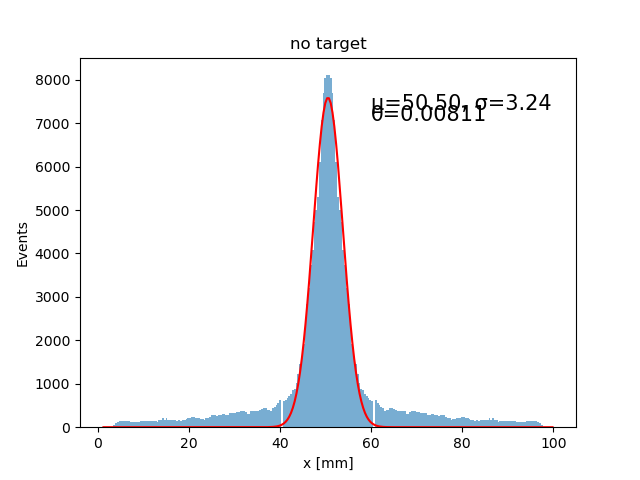
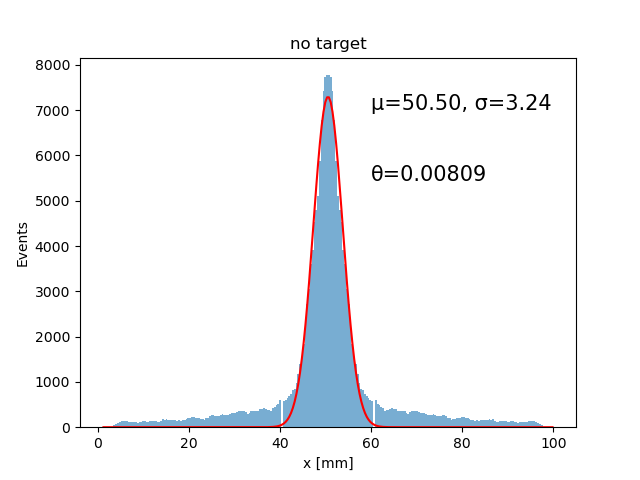
unedited no material plot added. XY Hitmap by Jonas added

diff --git a/src/elsa/dataReader.py b/src/elsa/dataReader.py
@@ -5,6 +5,10 @@ from collections import Counter
 from scipy.optimize import curve_fit
 
 def drawHistograms(file, histogramArray, indexTranslation):
+    
+    #To later calculate the standard deviation from the difference of the no data run and the other runs.
+    standardDevNoData = 0
+
     for i in histogramArray:
 
         mm_strip = file[i]["raw"]["mm_strip"].array(library="np")
@@ -18,7 +22,7 @@ def drawHistograms(file, histogramArray, indexTranslation):
 
 
         #filter out unprecise data to eliminate local jitters
-        valid_events = {eid for eid, count in event_counts.items() if count < 800}
+        valid_events = {eid for eid, count in event_counts.items() if count < 700}
         mask = np.isin(event_id, list(valid_events))
 
         mm_strip = mm_strip[mask]
@@ -27,43 +31,81 @@ def drawHistograms(file, histogramArray, indexTranslation):
         #divide mm strip into x and y data with apv_id
         x_strip = mm_strip[(apv_id == 0) | (apv_id == 1)]
         y_strip = mm_strip[(apv_id == 2) | (apv_id == 3)]
+        
+        #doesn't work because the lengths aren't equal
+        #print(len(x_strip))
+        #print(len(y_strip))
+        #if i == 0:
+        #    twodHist(x_strip,y_strip)
+        
+        #if i == 0:
+        #    plt.hist(y_strip, bins=250, range=(1,250))
+        #    plt.xlabel("y-Detector")
+        #    plt.ylabel("events")
+        #    plt.show()
+
+
 
         #swap out the left and right side to account for weird apv placement
+        x_strip[x_strip >= 126] -= 250
+        x_strip[x_strip >= 1] += 125
+        y_strip[y_strip <=0] += 125
+
         y_strip[y_strip >= 126] -= 250
         y_strip[y_strip >= 1] += 125
         y_strip[y_strip<=0] += 125 
+
+        if i == 0 and False:
+            plt.hist(y_strip, bins=250, range=(1,250))
+            plt.xlabel("y-Detector")
+            plt.ylabel("events")
+            plt.savefig("finished_plots/unfiltered_noMaterial.png")
+            plt.show()
         
         #convert the bin count into mm
         y_strip = y_strip / 2.5  +1
+        x_strip = x_strip / 2.5 +1
+        
+        #if i == 0:
+        #    twodHist(x_strip, y_strip)
 
         #these are now arrays that list the individual counts, such that the size of this array is the amount of data collected.
         #I will transform this into two arrays, both 250 long (the amount of buckets)
         #such that one records the size of the bucket, and the other the bucket number.
-        counts, edges = np.histogram(y_strip, bins=250, range=(1,100))
-        centers = 0.5 * (edges[:-1] + edges[1:])
+        ycounts, yedges = np.histogram(y_strip, bins=250, range=(1,100))
+        ycenters = 0.5 * (yedges[:-1] + yedges[1:])
         
         #mirroring the Array so that the data becomes easier to analyze and the sensitivity difference between apvs is ignored.
-        counts = mirrorArrayLeft(counts)
-
-
-
+        yMirrorcounts = mirrorArrayLeft(ycounts)
 
 
         #Now start a gauss fit by doing an initial guess
         #[amplitude, mean, stddev]
-        p0 = [np.max(counts), centers[np.argmax(counts)], 10, 500]
+        p0 = [np.max(yMirrorcounts), ycenters[np.argmax(yMirrorcounts)], 10, 500]
         
         #fit with scipy
-        popt, pcov = curve_fit(gauss, centers, counts, p0=p0)
+        popt, pcov = curve_fit(gauss, ycenters, yMirrorcounts, p0=p0)
+        
+        if i == 0:
+            standardDevNoData = popt[2] #Saves noData standard deviation
+            
 
-
-        plt.bar(centers, counts, width=edges[1] - edges[0], alpha=0.6, label="Data")
-        plt.plot(centers, gauss(centers, *popt), color='red', label="Gaussian Fit")
+        plt.bar(ycenters, yMirrorcounts, width=yedges[1] - yedges[0], alpha=0.6, label="Data")
+        plt.plot(ycenters, gauss(ycenters, *popt), color='red', label="Gaussian Fit")
         
         plt.xlabel("x [mm]")
         plt.ylabel("Events")
-        plt.text(60,np.max(counts) - np.max(counts)/10, f"μ={popt[1]:.2f}, σ={popt[2]:.2f}", fontsize=15)
-        plt.text(60,np.max(counts) - 1.3*np.max(counts)/10, "θ=" + str(np.round(np.arctan(popt[2]/400), 5)), fontsize=15)
+
+
+        if i == 0:
+            plt.text(60,np.max(yMirrorcounts) - np.max(yMirrorcounts)/10, f"μ={popt[1]:.2f}, σ={popt[2]:.2f}", fontsize=15)
+            plt.text(60,np.max(yMirrorcounts) - 3*np.max(yMirrorcounts)/10, "θ=" + str(np.round(np.arctan(popt[2]/400), 5)), fontsize=15)
+        else:
+            popt[2] = np.sqrt( popt[2]**2 - standardDevNoData**2 )
+            plt.text(60,np.max(yMirrorcounts) - np.max(yMirrorcounts)/10, f"μ={popt[1]:.2f}, σ={popt[2]:.2f}", fontsize=15)
+            plt.text(60, np.max(yMirrorcounts) - 3*np.max(yMirrorcounts)/10, "θ=" + str(np.round(np.arctan(popt[2]/400), 5)), fontsize=15)
+        
+
         plt.title(indexTranslation[i])
         plt.savefig("finished_plots/" + indexTranslation[i] + ".png")
 
@@ -71,6 +113,25 @@ def drawHistograms(file, histogramArray, indexTranslation):
 
         plt.show()
         
+def twodHist(xHist, yHist):
+    xbins, ybins = 250, 250
+    xrange, yrange = (1,100), (1,100)
+
+    H, xedges, yedges = np.histogram2d(
+            xHist, yHist, bins=[xbins, ybins], 
+            range=[xrange, yrange])
+
+
+    plt.figure(figsize=(6, 5))
+    plt.imshow(H.T, origin="lower", aspect="auto",
+           extent=[xedges[0], xedges[-1], yedges[0], yedges[-1]],
+           cmap="viridis")
+
+    plt.colorbar(label="Counts")
+    plt.xlabel("X Strip")
+    plt.ylabel("Y Strip")
+    plt.title("2D Histogram Heatmap")
+    plt.show()
 
 
 def openfile():
